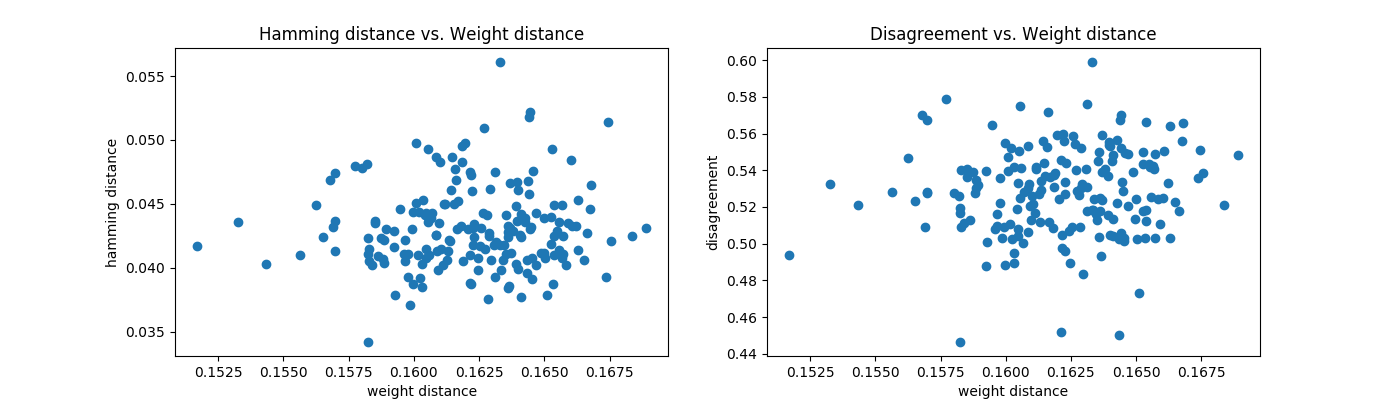
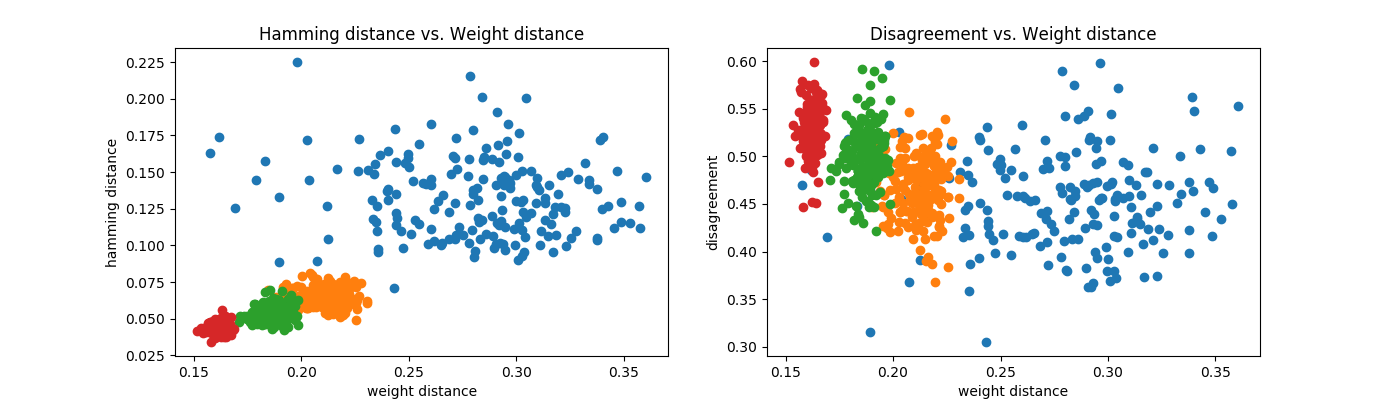
Fix cumulative figures and keep normalized and unnormalized weight distance measures

diff --git a/exp_shallow_nn.py b/exp_shallow_nn.py
@@ -2,7 +2,7 @@ from __future__ import print_function
 from NNTrainer import NNTrainer
 from models import Linear, ShallowNet, MinDeepNet, ExampleNet
 from infmetrics import get_pairwise_hamming_dists, get_pairwise_disagreements, \
-                       get_pairwise_weight_dists
+                       get_pairwise_weight_dists_normalized
 import torch
 import os
 import re
@@ -14,6 +14,8 @@ slurm_id = os.environ["SLURM_JOB_ID"]
 
 DEFAULT_WIDTH = 6
 DEFAULT_HEIGHT = 4
+HIDDEN_SIZES = [5, 10, 15, 25, 50, 100, 250, 500]
+LAST_HIDDEN_SIZE = HIDDEN_SIZES[-1]
 
 SAVED_MODELS_DIR = 'saved_models'
 
@@ -22,7 +24,7 @@ def run_nn_exp(num_hidden, retrain=False):
     bitmaps, weights = get_nn_information(num_hidden, retrain=retrain)
     all_ham_dists, _ = get_pairwise_hamming_dists(bitmaps)
     all_disagreements, _ = get_pairwise_disagreements(bitmaps)
-    all_weight_dists, _ = get_pairwise_weight_dists(weights)
+    all_weight_dists, _ = get_pairwise_weight_dists_normalized(weights)
     print_summary(all_ham_dists, '%s RESULT for %d hidden units' % ('hamming', num_hidden))
     print_summary(all_disagreements, '%s RESULT for %d hidden units' % ('disagreement', num_hidden))
     print_summary(all_weight_dists, '%s RESULT for %d hidden units' % ('weights', num_hidden))
@@ -82,7 +84,9 @@ def print_summary(l, message):
 def plot_results(num_hidden, all_ham_dists, all_disagreements, all_weight_dists,
                  same_figure=False):
     num_plots_per_exp = 2
-    if not same_figure:
+    if same_figure:
+        plt.figure('Cumulative', figsize=((DEFAULT_WIDTH + 1) * num_plots_per_exp, DEFAULT_HEIGHT))
+    else:
         plt.figure(figsize=((DEFAULT_WIDTH + 1) * num_plots_per_exp, DEFAULT_HEIGHT))
     
     plt.subplot(1, num_plots_per_exp, 1)
@@ -97,13 +101,12 @@ def plot_results(num_hidden, all_ham_dists, all_disagreements, all_weight_dists,
     plt.xlabel('weight distance')
     plt.ylabel('disagreement')
     
-    if same_figure:
-        plt.savefig('figures/shallow_exp_cum%d.png' % num_hidden)
+    if same_figure and num_hidden == LAST_HIDDEN_SIZE:
+        plt.savefig('figures/shallow_exp_all.png')
     else:
         plt.savefig('figures/shallow_exp%d.png' % num_hidden)
 
         
 if __name__ == '__main__':
-    hidden_sizes = [5, 10, 15, 25, 50, 100, 250, 500]
-    for num_hidden in hidden_sizes:
+    for num_hidden in HIDDEN_SIZES:
         run_nn_exp(num_hidden)

diff --git a/infmetrics.py b/infmetrics.py
@@ -61,6 +61,11 @@ def get_pairwise_weight_dists(seqs):
     return get_pairwise_dists(seqs, get_weight_dist)
 
 
+def get_pairwise_weight_dists_normalized(seqs):
+    """"Same as above, but using the normalized distance in weight space"""
+    return get_pairwise_dists(seqs, get_weight_dist_normalized)
+
+
 def get_agreement(seq1, seq2, mis_label=0):
     """
     Return the symmetric 'agreement' between two sequences where
@@ -84,11 +89,16 @@ def get_disagreement(seq1, seq2, mis_label=0):
 
 
 def get_weight_dist(w1, w2, p=2):
+    """Return the distance between models in weight space"""
+    return torch.norm(w1 - w2, p=p)
+
+
+def get_weight_dist_normalized(w1, w2, p=2):
     """
     Return the distance between models in weight space, normalized by the
     square root of the dimension
     """
-    return torch.norm(w1 - w2, p=p) / sqrt(len(w1))
+    return get_weight_dist(w1, w2, p=p) / sqrt(len(w1))
 
 
 def expected_hamming(p):
